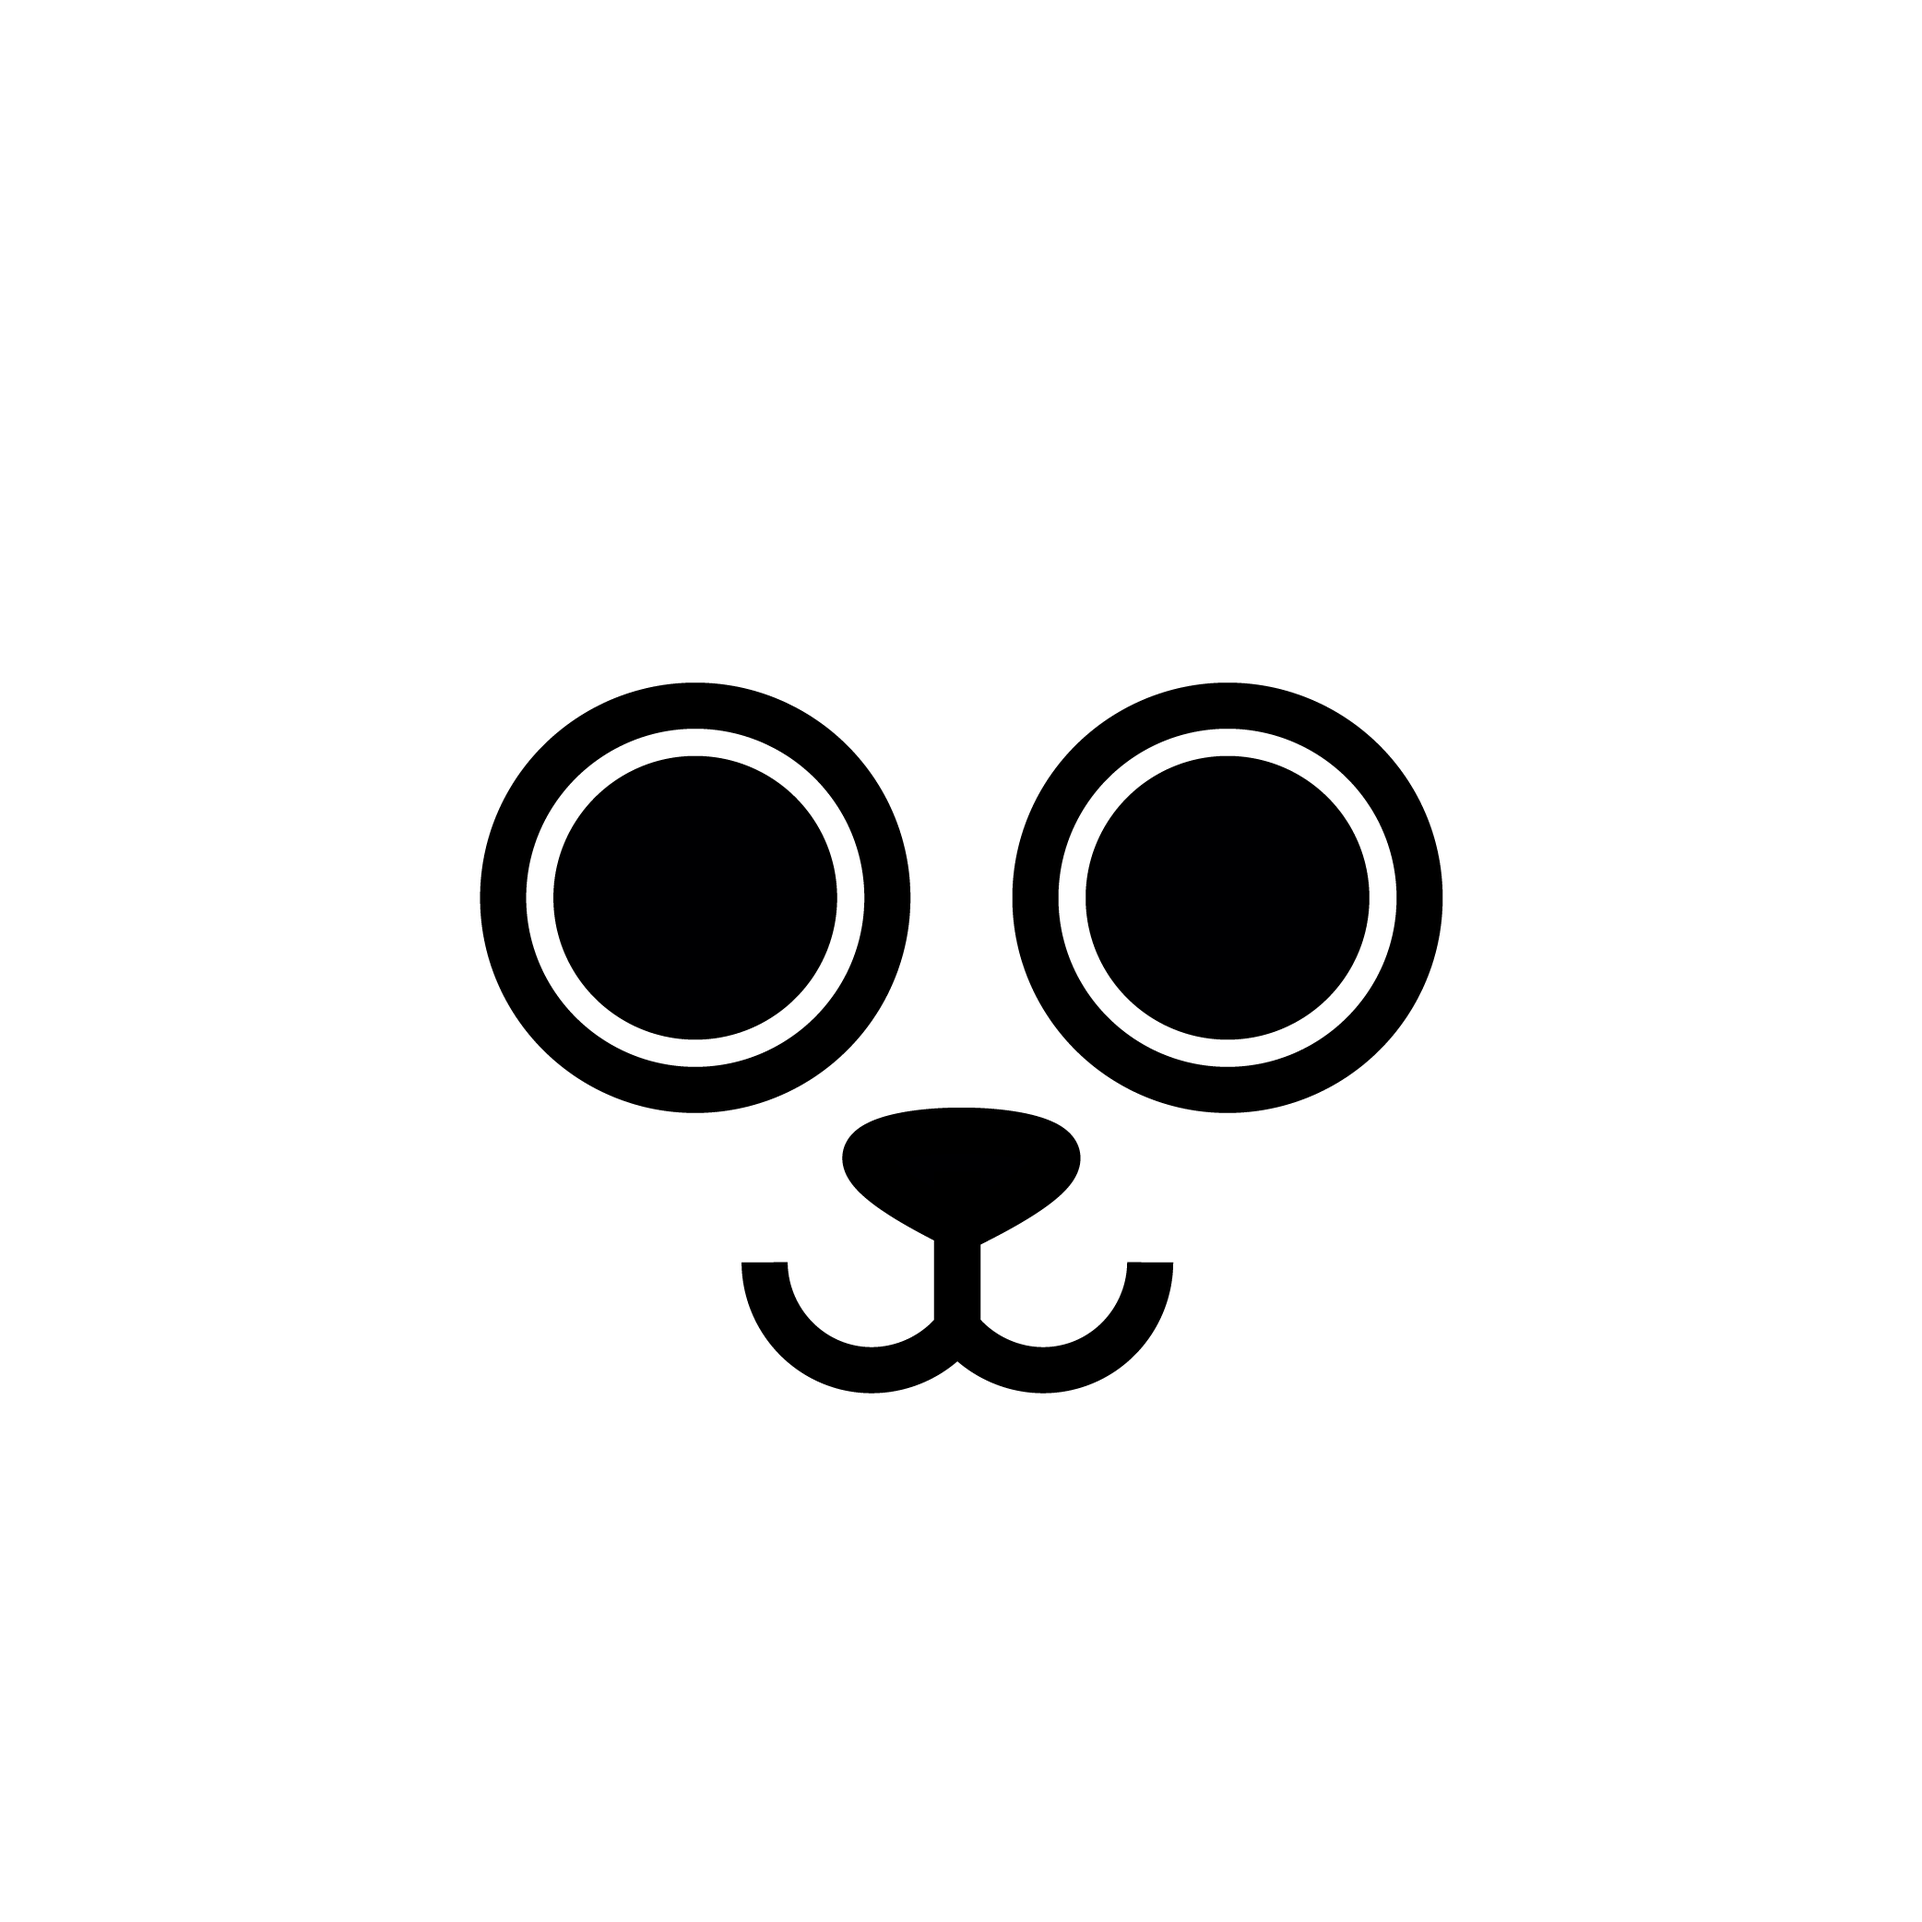
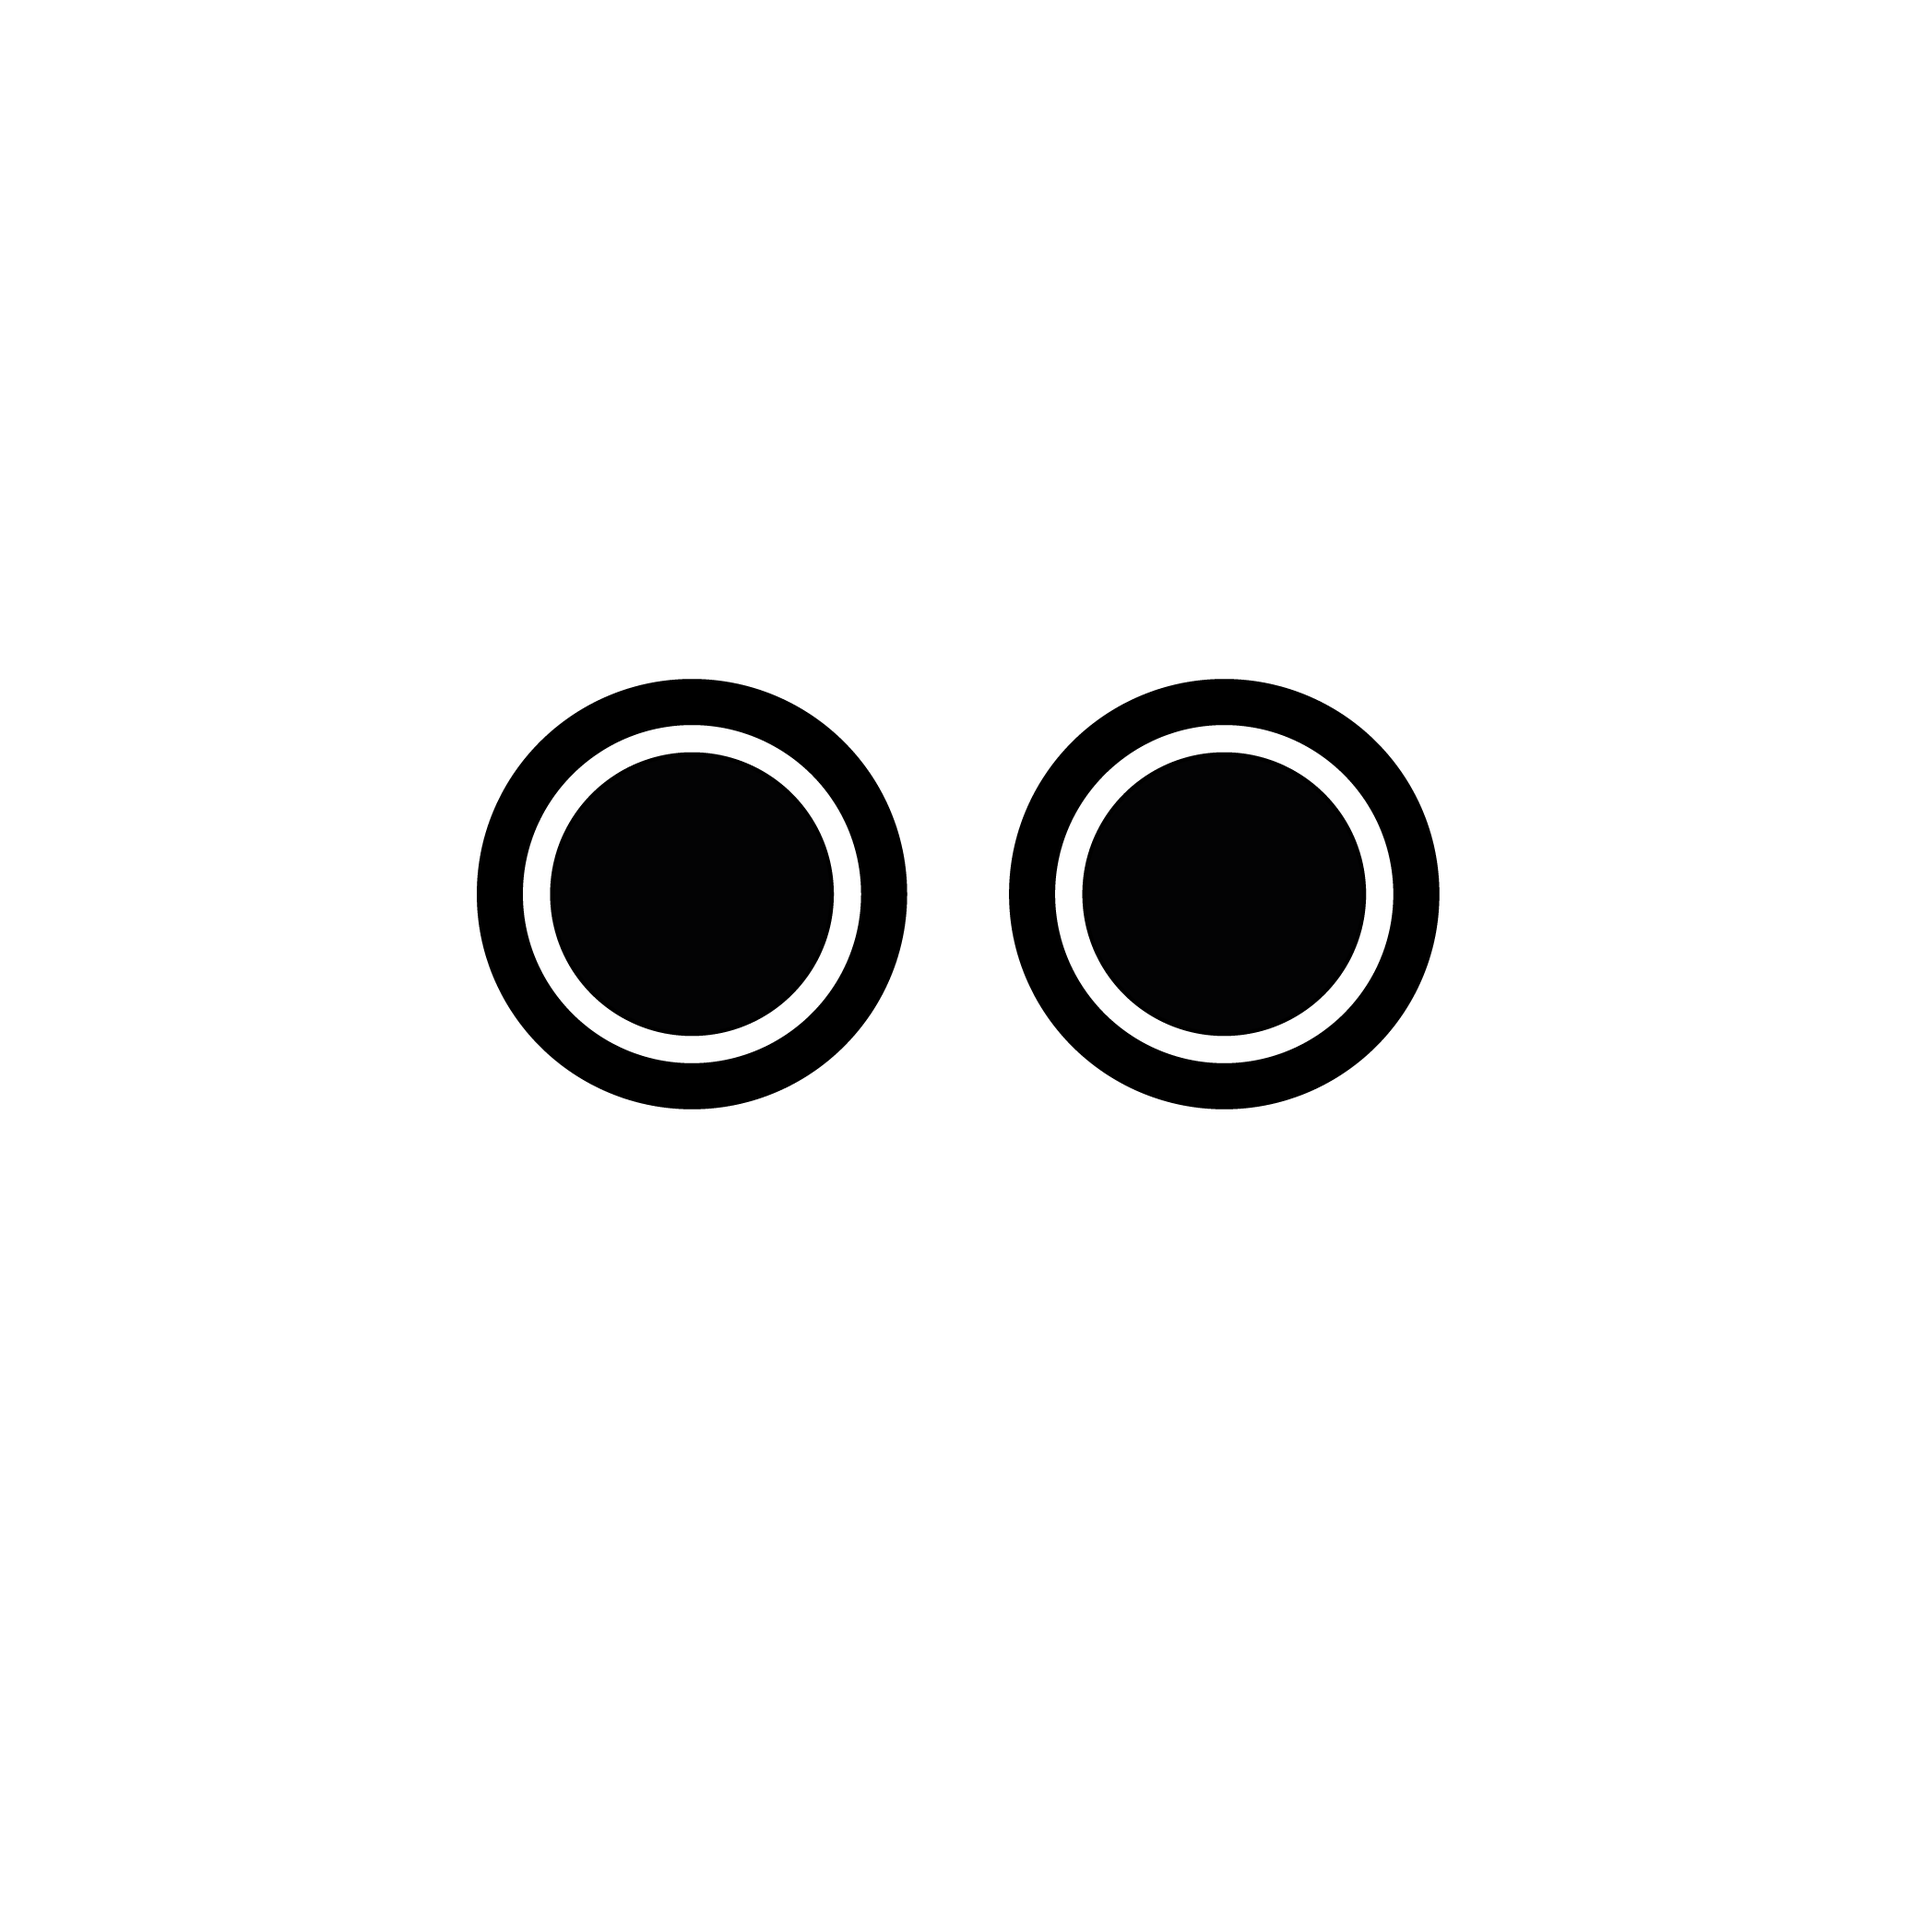
2.0 version
now 3 different assets for the face: eyes nose & mouth

diff --git a/script.js b/script.js
@@ -29,6 +29,18 @@ function genererlion(){
   var lioneyesname = "generatorassets/eyes/eyes"+lioneyesnum+".png";
   lioneyes.src=lioneyesname;
 
+  //mouth
+  var lionmouth = new Image();
+  var lionmouthnum = Math.floor(Math.random()*nbr_mouth+1);
+  var lionmouthname = "generatorassets/mouth/mouth"+lionmouthnum+".png";
+  lionmouth.src=lionmouthname;
+
+  //nose
+  var lionnose = new Image();
+  var lionnosenum = Math.floor(Math.random()*nbr_nose+1);
+  var lionnosename = "generatorassets/nose/nose"+lionnosenum+".png";
+  lionnose.src=lionnosename;
+
   //shoulders
   var lionshoulders = new Image();
   var lionshouldersnum = Math.floor(Math.random()*nbr_shoulders+1);
@@ -49,45 +61,57 @@ function genererlion(){
 
 
   background.onload = function(){
-    buildlion(lionhead, lioncrownone, lioncrowntwo, lionshoulders, lioneyes, background);
-    buildInvisibleLion(lionhead, lioncrownone, lioncrowntwo, lionshoulders, lioneyes, background);
+    buildlion(lionhead, lioncrownone, lioncrowntwo, lionshoulders, lioneyes, background, lionnose,lionmouth);
+    buildInvisibleLion(lionhead, lioncrownone, lioncrowntwo, lionshoulders, lioneyes, background,lionnose, lionmouth);
     background_loaded = true;
   }
 
   lionhead.onload = function(){
-    buildlion(lionhead, lioncrownone, lioncrowntwo, lionshoulders, lioneyes, background);
-    buildInvisibleLion(lionhead, lioncrownone, lioncrowntwo, lionshoulders, lioneyes, background);
+    buildlion(lionhead, lioncrownone, lioncrowntwo, lionshoulders, lioneyes, background, lionnose,lionmouth);
+    buildInvisibleLion(lionhead, lioncrownone, lioncrowntwo, lionshoulders, lioneyes, background,lionnose, lionmouth);
     head_loaded = true;
   }
 
   lioncrownone.onload = function(){
-    buildlion(lionhead, lioncrownone, lioncrowntwo, lionshoulders, lioneyes, background);
-    buildInvisibleLion(lionhead, lioncrownone, lioncrowntwo, lionshoulders, lioneyes, background);
+    buildlion(lionhead, lioncrownone, lioncrowntwo, lionshoulders, lioneyes, background, lionnose,lionmouth);
+    buildInvisibleLion(lionhead, lioncrownone, lioncrowntwo, lionshoulders, lioneyes, background,lionnose, lionmouth);
     crownone_loaded = true;
   }
 
   lioncrowntwo.onload = function(){
-    buildlion(lionhead, lioncrownone, lioncrowntwo, lionshoulders, lioneyes, background);
-    buildInvisibleLion(lionhead, lioncrownone, lioncrowntwo, lionshoulders, lioneyes, background);
+    buildlion(lionhead, lioncrownone, lioncrowntwo, lionshoulders, lioneyes, background, lionnose,lionmouth);
+    buildInvisibleLion(lionhead, lioncrownone, lioncrowntwo, lionshoulders, lioneyes, background,lionnose, lionmouth);
     var crowntwo_loaded = true;
   }
 
   lioneyes.onload = function(){
-    buildlion(lionhead, lioncrownone, lioncrowntwo, lionshoulders, lioneyes, background);
-    buildInvisibleLion(lionhead, lioncrownone, lioncrowntwo, lionshoulders, lioneyes, background);
+    buildlion(lionhead, lioncrownone, lioncrowntwo, lionshoulders, lioneyes, background, lionnose,lionmouth);
+    buildInvisibleLion(lionhead, lioncrownone, lioncrowntwo, lionshoulders, lioneyes, background,lionnose, lionmouth);
     eyes_loaded = true;
   }
 
   lionshoulders.onload = function(){
-    buildlion(lionhead, lioncrownone, lioncrowntwo, lionshoulders, lioneyes, background);
-    buildInvisibleLion(lionhead, lioncrownone, lioncrowntwo, lionshoulders, lioneyes, background);
+    buildlion(lionhead, lioncrownone, lioncrowntwo, lionshoulders, lioneyes, background, lionnose,lionmouth);
+    buildInvisibleLion(lionhead, lioncrownone, lioncrowntwo, lionshoulders, lioneyes, background,lionnose, lionmouth);
+    shooulders_loaded = true;
+  }
+
+  lionnose.onload = function(){
+    buildlion(lionhead, lioncrownone, lioncrowntwo, lionshoulders, lioneyes, background, lionnose,lionmouth);
+    buildInvisibleLion(lionhead, lioncrownone, lioncrowntwo, lionshoulders, lioneyes, background,lionnose, lionmouth);
+    shooulders_loaded = true;
+  }
+
+  lionmouth.onload = function(){
+    buildlion(lionhead, lioncrownone, lioncrowntwo, lionshoulders, lioneyes, background, lionnose,lionmouth);
+    buildInvisibleLion(lionhead, lioncrownone, lioncrowntwo, lionshoulders, lioneyes, background,lionnose, lionmouth);
     shooulders_loaded = true;
   }
 
   return{"background": background, "head": lionhead, "crownone": lioncrownone, "crowntwo": lioncrowntwo, "eyes": lioneyes, "shoulders": lionshoulders};
 }
 
-function buildlion(head, crown1, crown2, shoulders, eyes, background){
+function buildlion(head, crown1, crown2, shoulders, eyes, background,nose, mouth){
   var canvas = document.getElementById('canvas');
   var ctx = canvas.getContext('2d');
   canvas.width = 800;
@@ -100,10 +124,12 @@ function buildlion(head, crown1, crown2, shoulders, eyes, background){
   ctx.drawImage(crown2,(2085-crown2.width)/2,0, 800, 800)
   ctx.drawImage(head,(2085-head.width)/2,0, 800, 800)
   ctx.drawImage(eyes,(2085-eyes.width)/2,0, 800, 800)
+  ctx.drawImage(nose,(2085-nose.width)/2,0, 800, 800)
+  ctx.drawImage(mouth,(2085-mouth.width)/2,0, 800, 800)
 
 }
 
-function buildInvisibleLion(head, crown1, crown2, shoulders, eyes, background){
+function buildInvisibleLion(head, crown1, crown2, shoulders, eyes, background, nose, mouth){
   var canvas = document.getElementById('canvas-invisible');
   var ctxi = canvas.getContext('2d');
   canvas.width = 2085;
@@ -116,6 +142,8 @@ function buildInvisibleLion(head, crown1, crown2, shoulders, eyes, background){
   ctxi.drawImage(crown2,(2085-crown2.width)/2,0, 2085, 2085);
   ctxi.drawImage(head,(2085-head.width)/2,0, 2085, 2085);
   ctxi.drawImage(eyes,(2085-eyes.width)/2,0, 2085, 2085);
+  ctxi.drawImage(nose,(2085-nose.width)/2,0, 2085, 2085);
+  ctxi.drawImage(mouth,(2085-mouth.width)/2,0, 2085, 2085);
 
   return canvas;
 }

diff --git a/index.php b/index.php
@@ -60,7 +60,25 @@ if ($files){
 }
 ?>
 
+<?php
 
+$directory = "generatorassets/nose/";
+$noses = 0;
+$files = glob($directory . "*");
+if ($files){
+ $noses = count($files);
+}
+?>
+
+<?php
+
+$directory = "generatorassets/mouth/";
+$mouths = 0;
+$files = glob($directory . "*");
+if ($files){
+ $mouths = count($files);
+}
+?>
 
 <html lang="en" dir="ltr">
   <head>
@@ -75,6 +93,8 @@ if ($files){
       nbr_eyes = <?php echo $eyess; ?>;
       nbr_shoulders = <?php echo $shoulderss; ?>;
       nbr_backgrounds = <?php echo $backgrounds; ?>;
+      nbr_mouth = <?php echo $mouths; ?>;
+      nbr_nose = <?php echo $noses; ?>;
 
       genererlion();
     }
